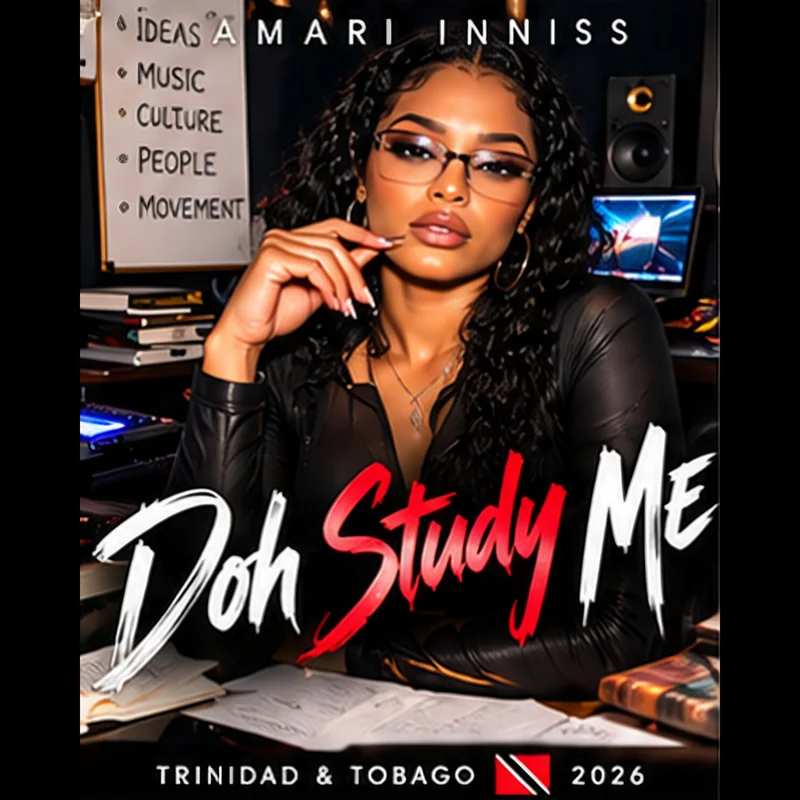
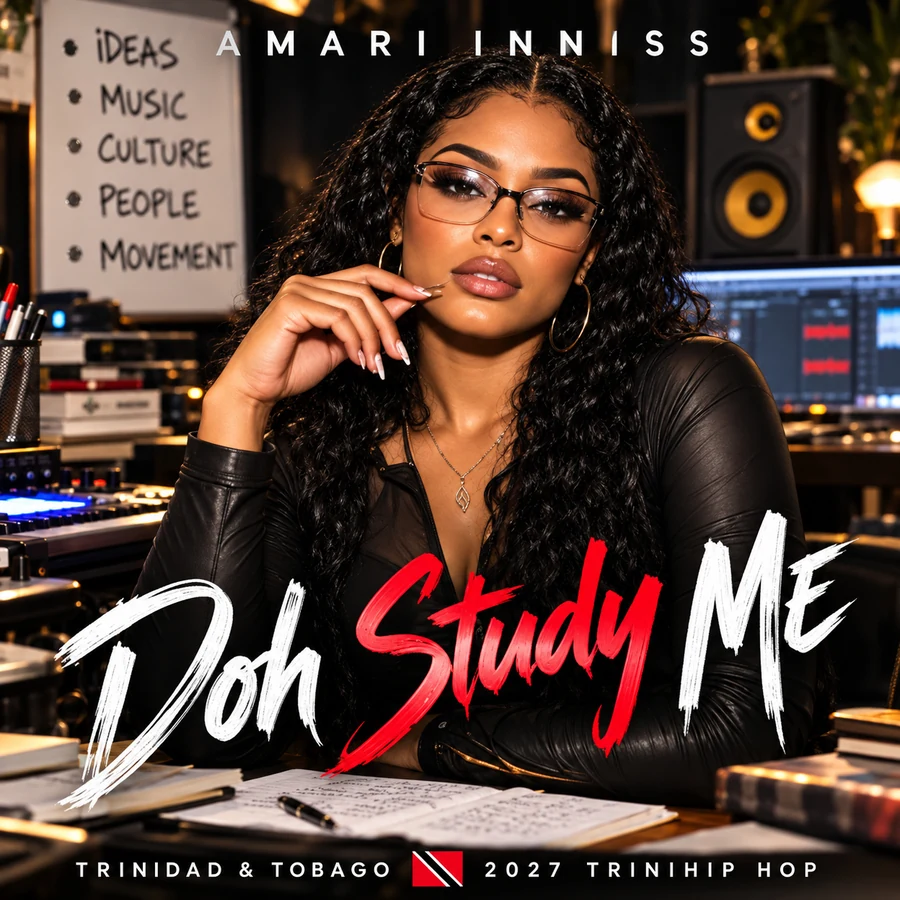
fix: restore canonical 2027 Amari artwork and artist-first presentation

diff --git a/amari-inniss/index.html b/amari-inniss/index.html
@@ -9,13 +9,13 @@
   <meta property="og:type" content="music.musician">
   <meta property="og:title" content="Amari Inniss — Trinidad & Tobago">
   <meta property="og:description" content="Good Soca. Good People. Good Energy. Debut album Doh Study Me. Study De Music. — October 9, 2026.">
-  <meta property="og:image" content="https://ftnplatform.org/assets/amari-inniss/album-cover.jpg">
+  <meta property="og:image" content="https://ftnplatform.org/assets/amari-inniss/album-cover.jpg?v=20260926.2">
   <meta name="theme-color" content="#0f0f0f">
   <meta name="robots" content="index,follow,max-image-preview:large">
   <meta name="twitter:card" content="summary_large_image">
   <meta name="twitter:title" content="Amari Inniss — Trinidad & Tobago">
   <meta name="twitter:description" content="Good Soca. Good People. Good Energy. Hear Amari Inniss and her debut album, October 9, 2026.">
-  <meta name="twitter:image" content="https://ftnplatform.org/assets/amari-inniss/album-cover.jpg">
+  <meta name="twitter:image" content="https://ftnplatform.org/assets/amari-inniss/album-cover.jpg?v=20260926.2">
   <link rel="stylesheet" href="/css/amari-inniss.css?v=20260926.1">
 </head>
 <body>
@@ -76,50 +76,50 @@
 <section class="section" id="music">
   <div class="wrap">
     <div class="album">
-      <div class="album__cover"><img loading="lazy" src="/assets/amari-inniss/album-cover.webp" alt="Doh Study Me. Study De Music. album cover"></div>
+      <div class="album__cover"><img loading="lazy" src="/assets/amari-inniss/album-cover.webp?v=20260926.2" alt="Doh Study Me. Study De Music. album cover"></div>
       <div>
         <p class="album__date">Debut album · October 9, 2026</p>
         <h2 class="album__title">Doh Study Me.<br>Study De Music.</h2>
         <p class="copy">Ten tracks built in Trinidad & Tobago for Carnival, radio, the road, the fete and beyond. You can hear the album directly here.</p>
         <div class="start-here" aria-label="Recommended tracks to start with">
           <span>Start here</span>
-          <button class="feature__play" data-src="/assets/amari-inniss/audio/01-one-for-the-road.mp3" data-art="/assets/amari-inniss/01-one-for-the-road.webp" data-title="One for the Road" data-genre="Groovy Soca">One for the Road</button>
-          <button class="feature__play" data-src="/assets/amari-inniss/audio/02-right-dey.mp3" data-art="/assets/amari-inniss/02-right-dey.webp" data-title="Right Dey" data-genre="Groovy Soca">Right Dey</button>
-          <button class="feature__play" data-src="/assets/amari-inniss/audio/03-no-behaviour.mp3" data-art="/assets/amari-inniss/03-no-behaviour.webp" data-title="No Behaviour" data-genre="Groovy Soca">No Behaviour</button>
+          <button class="feature__play" data-src="/assets/amari-inniss/audio/01-one-for-the-road.mp3" data-art="/assets/amari-inniss/01-one-for-the-road.webp?v=20260926.2" data-title="One for the Road" data-genre="Groovy Soca">One for the Road</button>
+          <button class="feature__play" data-src="/assets/amari-inniss/audio/02-right-dey.mp3" data-art="/assets/amari-inniss/02-right-dey.webp?v=20260926.2" data-title="Right Dey" data-genre="Groovy Soca">Right Dey</button>
+          <button class="feature__play" data-src="/assets/amari-inniss/audio/03-no-behaviour.mp3" data-art="/assets/amari-inniss/03-no-behaviour.webp?v=20260926.2" data-title="No Behaviour" data-genre="Groovy Soca">No Behaviour</button>
         </div>
         <div class="player">
           <div class="player__now">
-            <img class="player__art" id="playerArt" src="/assets/amari-inniss/01-one-for-the-road.webp" alt="">
+            <img class="player__art" id="playerArt" src="/assets/amari-inniss/01-one-for-the-road.webp?v=20260926.2" alt="">
             <div class="player__meta"><strong id="playerTitle">One for the Road</strong><span id="playerGenre">Groovy Soca</span></div>
           </div>
           <audio id="amariAudio" controls preload="metadata" controlsList="nodownload noplaybackrate" src="/assets/amari-inniss/audio/01-one-for-the-road.mp3">Your browser does not support audio playback.</audio>
         </div>
         <div class="tracklist" id="tracklist">
-          <div class="track"><span class="track__no">01</span><span class="track__name">One for the Road</span><span class="track__genre">Groovy Soca</span><button class="track__play" data-src="/assets/amari-inniss/audio/01-one-for-the-road.mp3" data-art="/assets/amari-inniss/01-one-for-the-road.webp" data-title="One for the Road" data-genre="Groovy Soca">Play</button></div>
-          <div class="track"><span class="track__no">02</span><span class="track__name">Right Dey</span><span class="track__genre">Groovy Soca</span><button class="track__play" data-src="/assets/amari-inniss/audio/02-right-dey.mp3" data-art="/assets/amari-inniss/02-right-dey.webp" data-title="Right Dey" data-genre="Groovy Soca">Play</button></div>
-          <div class="track"><span class="track__no">03</span><span class="track__name">No Behaviour</span><span class="track__genre">Groovy Soca</span><button class="track__play" data-src="/assets/amari-inniss/audio/03-no-behaviour.mp3" data-art="/assets/amari-inniss/03-no-behaviour.webp" data-title="No Behaviour" data-genre="Groovy Soca">Play</button></div>
-          <div class="track"><span class="track__no">04</span><span class="track__name">De Whole Road</span><span class="track__genre">Power Soca</span><button class="track__play" data-src="/assets/amari-inniss/audio/04-de-whole-road.mp3" data-art="/assets/amari-inniss/04-de-whole-road.webp" data-title="De Whole Road" data-genre="Power Soca">Play</button></div>
-          <div class="track"><span class="track__no">05</span><span class="track__name">Pretty in Oil</span><span class="track__genre">Soca Jab</span><button class="track__play" data-src="/assets/amari-inniss/audio/05-pretty-in-oil.mp3" data-art="/assets/amari-inniss/05-pretty-in-oil.webp" data-title="Pretty in Oil" data-genre="Soca Jab">Play</button></div>
-          <div class="track"><span class="track__no">06</span><span class="track__name">Pretty Gyal Smoke Too</span><span class="track__genre">Reggae</span><button class="track__play" data-src="/assets/amari-inniss/audio/06-pretty-gyal-smoke-too.mp3" data-art="/assets/amari-inniss/06-pretty-gyal-smoke-too.webp" data-title="Pretty Gyal Smoke Too" data-genre="Reggae">Play</button></div>
-          <div class="track"><span class="track__no">07</span><span class="track__name">Dougla Gyal (Sweet From Both Sides)</span><span class="track__genre">Groovy Soca</span><button class="track__play" data-src="/assets/amari-inniss/audio/07-dougla-gyal.mp3" data-art="/assets/amari-inniss/07-dougla-gyal.webp" data-title="Dougla Gyal (Sweet From Both Sides)" data-genre="Groovy Soca">Play</button></div>
-          <div class="track"><span class="track__no">08</span><span class="track__name">Take Your Time With Me</span><span class="track__genre">Reggae</span><button class="track__play" data-src="/assets/amari-inniss/audio/08-take-your-time-with-me.mp3" data-art="/assets/amari-inniss/08-take-your-time-with-me.webp" data-title="Take Your Time With Me" data-genre="Reggae">Play</button></div>
-          <div class="track"><span class="track__no">09</span><span class="track__name">Doh Study Me</span><span class="track__genre">Trini Hip Hop / Dancehall</span><button class="track__play" data-src="/assets/amari-inniss/audio/09-doh-study-me.mp3" data-art="/assets/amari-inniss/09-doh-study-me.webp" data-title="Doh Study Me" data-genre="Trini Hip Hop / Dancehall">Play</button></div>
-          <div class="track"><span class="track__no">10</span><span class="track__name">NO LONG TALK</span><span class="track__genre">Trinibad</span><button class="track__play" data-src="/assets/amari-inniss/audio/10-no-long-talk.mp3" data-art="/assets/amari-inniss/10-no-long-talk.webp" data-title="NO LONG TALK" data-genre="Trinibad">Play</button></div>
+          <div class="track"><span class="track__no">01</span><span class="track__name">One for the Road</span><span class="track__genre">Groovy Soca</span><button class="track__play" data-src="/assets/amari-inniss/audio/01-one-for-the-road.mp3" data-art="/assets/amari-inniss/01-one-for-the-road.webp?v=20260926.2" data-title="One for the Road" data-genre="Groovy Soca">Play</button></div>
+          <div class="track"><span class="track__no">02</span><span class="track__name">Right Dey</span><span class="track__genre">Groovy Soca</span><button class="track__play" data-src="/assets/amari-inniss/audio/02-right-dey.mp3" data-art="/assets/amari-inniss/02-right-dey.webp?v=20260926.2" data-title="Right Dey" data-genre="Groovy Soca">Play</button></div>
+          <div class="track"><span class="track__no">03</span><span class="track__name">No Behaviour</span><span class="track__genre">Groovy Soca</span><button class="track__play" data-src="/assets/amari-inniss/audio/03-no-behaviour.mp3" data-art="/assets/amari-inniss/03-no-behaviour.webp?v=20260926.2" data-title="No Behaviour" data-genre="Groovy Soca">Play</button></div>
+          <div class="track"><span class="track__no">04</span><span class="track__name">De Whole Road</span><span class="track__genre">Power Soca</span><button class="track__play" data-src="/assets/amari-inniss/audio/04-de-whole-road.mp3" data-art="/assets/amari-inniss/04-de-whole-road.webp?v=20260926.2" data-title="De Whole Road" data-genre="Power Soca">Play</button></div>
+          <div class="track"><span class="track__no">05</span><span class="track__name">Pretty in Oil</span><span class="track__genre">Soca Jab</span><button class="track__play" data-src="/assets/amari-inniss/audio/05-pretty-in-oil.mp3" data-art="/assets/amari-inniss/05-pretty-in-oil.webp?v=20260926.2" data-title="Pretty in Oil" data-genre="Soca Jab">Play</button></div>
+          <div class="track"><span class="track__no">06</span><span class="track__name">Pretty Gyal Smoke Too</span><span class="track__genre">Reggae</span><button class="track__play" data-src="/assets/amari-inniss/audio/06-pretty-gyal-smoke-too.mp3" data-art="/assets/amari-inniss/06-pretty-gyal-smoke-too.webp?v=20260926.2" data-title="Pretty Gyal Smoke Too" data-genre="Reggae">Play</button></div>
+          <div class="track"><span class="track__no">07</span><span class="track__name">Dougla Gyal (Sweet From Both Sides)</span><span class="track__genre">Groovy Soca</span><button class="track__play" data-src="/assets/amari-inniss/audio/07-dougla-gyal.mp3" data-art="/assets/amari-inniss/07-dougla-gyal.webp?v=20260926.2" data-title="Dougla Gyal (Sweet From Both Sides)" data-genre="Groovy Soca">Play</button></div>
+          <div class="track"><span class="track__no">08</span><span class="track__name">Take Your Time With Me</span><span class="track__genre">Reggae</span><button class="track__play" data-src="/assets/amari-inniss/audio/08-take-your-time-with-me.mp3" data-art="/assets/amari-inniss/08-take-your-time-with-me.webp?v=20260926.2" data-title="Take Your Time With Me" data-genre="Reggae">Play</button></div>
+          <div class="track"><span class="track__no">09</span><span class="track__name">Doh Study Me</span><span class="track__genre">Trini Hip Hop / Dancehall</span><button class="track__play" data-src="/assets/amari-inniss/audio/09-doh-study-me.mp3" data-art="/assets/amari-inniss/09-doh-study-me.webp?v=20260926.2" data-title="Doh Study Me" data-genre="Trini Hip Hop / Dancehall">Play</button></div>
+          <div class="track"><span class="track__no">10</span><span class="track__name">NO LONG TALK</span><span class="track__genre">Trinibad</span><button class="track__play" data-src="/assets/amari-inniss/audio/10-no-long-talk.mp3" data-art="/assets/amari-inniss/10-no-long-talk.webp?v=20260926.2" data-title="NO LONG TALK" data-genre="Trinibad">Play</button></div>
         </div>
       </div>
     </div>
 
     <div class="covers" aria-label="Track artwork">
-      <div class="cover"><img loading="lazy" src="/assets/amari-inniss/01-one-for-the-road.webp" alt="One for the Road cover"><span>One for the Road</span></div>
-      <div class="cover"><img loading="lazy" src="/assets/amari-inniss/02-right-dey.webp" alt="Right Dey cover"><span>Right Dey</span></div>
-      <div class="cover"><img loading="lazy" src="/assets/amari-inniss/03-no-behaviour.webp" alt="No Behaviour cover"><span>No Behaviour</span></div>
-      <div class="cover"><img loading="lazy" src="/assets/amari-inniss/04-de-whole-road.webp" alt="De Whole Road cover"><span>De Whole Road</span></div>
-      <div class="cover"><img loading="lazy" src="/assets/amari-inniss/05-pretty-in-oil.webp" alt="Pretty in Oil cover"><span>Pretty in Oil</span></div>
-      <div class="cover"><img loading="lazy" src="/assets/amari-inniss/06-pretty-gyal-smoke-too.webp" alt="Pretty Gyal Smoke Too cover"><span>Pretty Gyal Smoke Too</span></div>
-      <div class="cover"><img loading="lazy" src="/assets/amari-inniss/07-dougla-gyal.webp" alt="Dougla Gyal cover"><span>Dougla Gyal</span></div>
-      <div class="cover"><img loading="lazy" src="/assets/amari-inniss/08-take-your-time-with-me.webp" alt="Take Your Time With Me cover"><span>Take Your Time With Me</span></div>
-      <div class="cover"><img loading="lazy" src="/assets/amari-inniss/09-doh-study-me.webp" alt="Doh Study Me cover"><span>Doh Study Me</span></div>
-      <div class="cover"><img loading="lazy" src="/assets/amari-inniss/10-no-long-talk.webp" alt="NO LONG TALK cover"><span>NO LONG TALK</span></div>
+      <div class="cover"><img loading="lazy" src="/assets/amari-inniss/01-one-for-the-road.webp?v=20260926.2" alt="One for the Road cover"><span>One for the Road</span></div>
+      <div class="cover"><img loading="lazy" src="/assets/amari-inniss/02-right-dey.webp?v=20260926.2" alt="Right Dey cover"><span>Right Dey</span></div>
+      <div class="cover"><img loading="lazy" src="/assets/amari-inniss/03-no-behaviour.webp?v=20260926.2" alt="No Behaviour cover"><span>No Behaviour</span></div>
+      <div class="cover"><img loading="lazy" src="/assets/amari-inniss/04-de-whole-road.webp?v=20260926.2" alt="De Whole Road cover"><span>De Whole Road</span></div>
+      <div class="cover"><img loading="lazy" src="/assets/amari-inniss/05-pretty-in-oil.webp?v=20260926.2" alt="Pretty in Oil cover"><span>Pretty in Oil</span></div>
+      <div class="cover"><img loading="lazy" src="/assets/amari-inniss/06-pretty-gyal-smoke-too.webp?v=20260926.2" alt="Pretty Gyal Smoke Too cover"><span>Pretty Gyal Smoke Too</span></div>
+      <div class="cover"><img loading="lazy" src="/assets/amari-inniss/07-dougla-gyal.webp?v=20260926.2" alt="Dougla Gyal cover"><span>Dougla Gyal</span></div>
+      <div class="cover"><img loading="lazy" src="/assets/amari-inniss/08-take-your-time-with-me.webp?v=20260926.2" alt="Take Your Time With Me cover"><span>Take Your Time With Me</span></div>
+      <div class="cover"><img loading="lazy" src="/assets/amari-inniss/09-doh-study-me.webp?v=20260926.2" alt="Doh Study Me cover"><span>Doh Study Me</span></div>
+      <div class="cover"><img loading="lazy" src="/assets/amari-inniss/10-no-long-talk.webp?v=20260926.2" alt="NO LONG TALK cover"><span>NO LONG TALK</span></div>
     </div>
   </div>
 </section>
@@ -162,13 +162,13 @@
   <div class="wrap">
     <div class="section__head"><div><span class="eyebrow" style="color:var(--gold)">Watch Amari</span><h2>Visualizers, performances and video.</h2></div><div class="copy"><p>Official Amari visualizers are being prepared for release on YouTube. This section will switch to direct watch links as each video goes live.</p><div class="actions"><a class="btn" href="https://www.youtube.com/channel/UCChy7ZcLtsPhjUfJ7wPgPMA">Open Amari on YouTube</a><a class="btn btn--ghost" href="https://www.youtube.com/channel/UCChy7ZcLtsPhjUfJ7wPgPMA/videos">Videos</a></div></div></div>
     <div class="watchgrid">
-      <a class="watchcard" href="https://www.youtube.com/channel/UCChy7ZcLtsPhjUfJ7wPgPMA/videos"><img loading="lazy" src="/assets/amari-inniss/03-no-behaviour.webp" alt=""><div class="watchcard__body"><strong>No Behaviour</strong><span>Official visualizer · YouTube rollout</span></div></a>
-      <a class="watchcard" href="https://www.youtube.com/channel/UCChy7ZcLtsPhjUfJ7wPgPMA/videos"><img loading="lazy" src="/assets/amari-inniss/04-de-whole-road.webp" alt=""><div class="watchcard__body"><strong>De Whole Road</strong><span>Official visualizer · YouTube rollout</span></div></a>
-      <a class="watchcard" href="https://www.youtube.com/channel/UCChy7ZcLtsPhjUfJ7wPgPMA/videos"><img loading="lazy" src="/assets/amari-inniss/05-pretty-in-oil.webp" alt=""><div class="watchcard__body"><strong>Pretty in Oil</strong><span>Official visualizer · YouTube rollout</span></div></a>
-      <a class="watchcard" href="https://www.youtube.com/channel/UCChy7ZcLtsPhjUfJ7wPgPMA/videos"><img loading="lazy" src="/assets/amari-inniss/06-pretty-gyal-smoke-too.webp" alt=""><div class="watchcard__body"><strong>Pretty Gyal Smoke Too</strong><span>Official visualizer · YouTube rollout</span></div></a>
-      <a class="watchcard" href="https://www.youtube.com/channel/UCChy7ZcLtsPhjUfJ7wPgPMA/videos"><img loading="lazy" src="/assets/amari-inniss/07-dougla-gyal.webp" alt=""><div class="watchcard__body"><strong>Dougla Gyal</strong><span>Official visualizer · YouTube rollout</span></div></a>
-      <a class="watchcard" href="https://www.youtube.com/channel/UCChy7ZcLtsPhjUfJ7wPgPMA/videos"><img loading="lazy" src="/assets/amari-inniss/08-take-your-time-with-me.webp" alt=""><div class="watchcard__body"><strong>Take Your Time With Me</strong><span>Official visualizer · YouTube rollout</span></div></a>
-      <a class="watchcard" href="https://www.youtube.com/channel/UCChy7ZcLtsPhjUfJ7wPgPMA/videos"><img loading="lazy" src="/assets/amari-inniss/10-no-long-talk.webp" alt=""><div class="watchcard__body"><strong>NO LONG TALK</strong><span>Official visualizer · YouTube rollout</span></div></a>
+      <a class="watchcard" href="https://www.youtube.com/channel/UCChy7ZcLtsPhjUfJ7wPgPMA/videos"><img loading="lazy" src="/assets/amari-inniss/03-no-behaviour.webp?v=20260926.2" alt=""><div class="watchcard__body"><strong>No Behaviour</strong><span>Official visualizer · YouTube rollout</span></div></a>
+      <a class="watchcard" href="https://www.youtube.com/channel/UCChy7ZcLtsPhjUfJ7wPgPMA/videos"><img loading="lazy" src="/assets/amari-inniss/04-de-whole-road.webp?v=20260926.2" alt=""><div class="watchcard__body"><strong>De Whole Road</strong><span>Official visualizer · YouTube rollout</span></div></a>
+      <a class="watchcard" href="https://www.youtube.com/channel/UCChy7ZcLtsPhjUfJ7wPgPMA/videos"><img loading="lazy" src="/assets/amari-inniss/05-pretty-in-oil.webp?v=20260926.2" alt=""><div class="watchcard__body"><strong>Pretty in Oil</strong><span>Official visualizer · YouTube rollout</span></div></a>
+      <a class="watchcard" href="https://www.youtube.com/channel/UCChy7ZcLtsPhjUfJ7wPgPMA/videos"><img loading="lazy" src="/assets/amari-inniss/06-pretty-gyal-smoke-too.webp?v=20260926.2" alt=""><div class="watchcard__body"><strong>Pretty Gyal Smoke Too</strong><span>Official visualizer · YouTube rollout</span></div></a>
+      <a class="watchcard" href="https://www.youtube.com/channel/UCChy7ZcLtsPhjUfJ7wPgPMA/videos"><img loading="lazy" src="/assets/amari-inniss/07-dougla-gyal.webp?v=20260926.2" alt=""><div class="watchcard__body"><strong>Dougla Gyal</strong><span>Official visualizer · YouTube rollout</span></div></a>
+      <a class="watchcard" href="https://www.youtube.com/channel/UCChy7ZcLtsPhjUfJ7wPgPMA/videos"><img loading="lazy" src="/assets/amari-inniss/08-take-your-time-with-me.webp?v=20260926.2" alt=""><div class="watchcard__body"><strong>Take Your Time With Me</strong><span>Official visualizer · YouTube rollout</span></div></a>
+      <a class="watchcard" href="https://www.youtube.com/channel/UCChy7ZcLtsPhjUfJ7wPgPMA/videos"><img loading="lazy" src="/assets/amari-inniss/10-no-long-talk.webp?v=20260926.2" alt=""><div class="watchcard__body"><strong>NO LONG TALK</strong><span>Official visualizer · YouTube rollout</span></div></a>
     </div>
   </div>
 </section>

diff --git a/service-worker.js b/service-worker.js
@@ -12,7 +12,7 @@
 // Bump this value for every production shell release. A new cache namespace makes
 // sure a browser that previously installed FTN does not continue rendering an
 // obsolete HTML/CSS/JS shell after Cloudflare has deployed a repair.
-var VERSION='ftn-public-v2.4.3';
+var VERSION='ftn-public-v2.4.4';
 var SHELL=[
   '/','/offline/','/manifest.webmanifest','/css/tokens.css','/css/base.css',
   '/css/components/buttons.css','/css/components/nav.css','/css/components/nexus-foundation.css',
